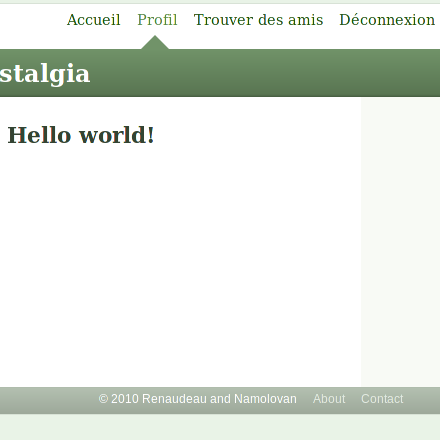
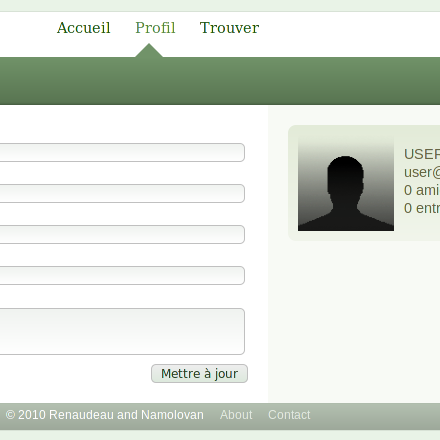
continued project

diff --git a/public/stylesheets/main.sass b/public/stylesheets/main.sass
@@ -20,6 +20,9 @@
 !section_width = 520px
 !global_border_radius = 10px
 
+p
+  :padding 4px 0
+
 body
   :margin 20px 0
 
@@ -58,6 +61,7 @@ body
     .user
       :float right
       :padding 5px 10px
+      :font-weight bold
     .logout
       :clear both
       :float right
@@ -92,6 +96,20 @@ body
     :overflow auto
     width = !aside_width
     :padding 20px
+    
+    .box
+      &.userInfo
+        .infos
+          :padding 10px
+          :font-size 1.2em
+          :width 160px
+
+
+/* class css utils */
+.floatright
+  :float right
+.floatleft
+  :float left
 
 
 /* general style and colors */
@@ -108,6 +126,9 @@ body
 !back_header_from=#719369
 !back_header_to=#587451
 
+!back_buttons_from = #F9F9F9
+!back_buttons_to = #EEE
+
 !back_footer_from=#b4c1b1
 !back_footer_to=#9da89a
 !text_footer=white
@@ -121,7 +142,7 @@ body
 !back_input_from=#f0f3f0
 !back_input_to=white
 !back_button_from=#eee
-!back_button_to=#dde9dd
+!back_button_to=#ddd
 
 body
   :font 12px Arial,Verdana,sans-serif
@@ -139,7 +160,13 @@ em
   :font-style italic
 
 form
-  .buttons
+  :margin-bottom 20px
+  p.buttons
+    :overflow auto
+    :margin 5px 0
+    :padding 5px
+    +vertical-gradient(!back_buttons_from, !back_buttons_to)
+    +border-radius(5px)
     button
       :float right
   .error
@@ -151,11 +178,13 @@ form
   
   p
     :clear both
+    &.floatleft, &.floatright
+      :clear none
   
   label
     :display block
   
-  input[type=text], input[type=password]
+  input[type=text], input[type=password], textarea
     :width 99%
     border = 1px solid !border_input
     &:focus
@@ -171,7 +200,6 @@ form
       border = 1px solid !border_input-#222
     +border-radius(5px)
     :color #283f23
-    :background #e5f0e2  
     +vertical-gradient(!back_button_from, !back_button_to)
     &:hover
       +vertical-gradient(!back_button_from+#111, !back_button_to+#111)
@@ -183,7 +211,7 @@ form
   >nav
     :background white
   >header
-    +vertical-gradient(!back_header_from, !back_header_to, url(/public/image/header.png))
+    +vertical-gradient(!back_header_from, !back_header_to, url(/public/images/header.png))
     :color white
     .logout
       color = !back_header_to+#444
@@ -202,7 +230,8 @@ form
     :background white
     :min-height 250px
   >aside
-    p
+    div.box
+      :overflow auto
       :padding 10px
       :margin-bottom 15px
       +vertical-gradient(!back_aside_from, !back_aside_to)
@@ -267,17 +296,19 @@ form
   h1, h2, h3, h4
     :font-weight bold
     font-family = !font_title
-    :padding 5px
+    :padding 0 5px
   h1
     :font-size 2em
+    :line-height 2em
   h2
     :font-size 1.8em
+    :line-height 1.8em
   h3
     :font-size 1.6em
+    :line-height 1.6em
   h4
     :font-size 1.4em
-  p
-    :padding 4px 0
+    :line-height 1.4em
 
 /* login */
 #login
@@ -292,7 +323,7 @@ form
 /* overview */
 !img_width = 440px
 !img_height = 440px
-!back_carousel = #6e8f66
+!back_carousel = #9EBA98
 
 #overview
   h3

diff --git a/app/views/Main/profile.html b/app/views/Main/profile.html
@@ -5,7 +5,68 @@
 }%
 
 #{set 'aside'}
-
+  <div class="box userInfo">
+    <img class="avatar floatleft" src="/public/images/avatar.png" />
+    <div class="floatleft infos">
+      <p class="user">${connected.firstname} ${connected.lastname}</p>
+      <p class="email">${connected.email}</p>
+      <p class="address">${connected.address}</p>
+      <p class="phone">${connected.phone}</p>
+      <p class="stats">
+        <span>${!connected.friends?0:connected.friends.size()} ami(s)</span>, 
+        <span>${!connected.universities?0:connected.universities.size()} université(s)</span>, 
+        <span>${!connected.corporations?0:connected.corporations.size()} entreprise(s)</span>
+      </p>
+      #{if connected.isAdmin}<p class="isAdmin">Administrateur</p>#{/if}
+    </div>
+  </div>
 #{/set}
 
-<h2 style="text-align: center;">Hello world!</h2>
+<div>
+  <form>
+    <p>
+      <label for="firstname">Nom</label>
+      <input type="text" id="firstname" name="firstname" value="${connected.firstname}" />
+    </p>
+    <p>
+      <label for="lastname">Prénom</label>
+      <input type="text" id="lastname" name="lastname" value="${connected.lastname}" />
+    </p>
+    <p>
+      <label for="email">Email</label>
+      <input type="text" id="email" name="email" value="${connected.email}" />
+    </p>
+    <p>
+      <label for="phone">Téléphone</label>
+      <input type="text" id="phone" name="phone" value="${connected.phone}" />
+    </p>
+    <p>
+      <label for="address">Adresse</label>
+      <textarea type="text" id="address" name="address">${connected.address}</textarea>
+    </p>
+    <p class="buttons">
+      <button>Mettre à jour</button>
+    </p>
+  </form>
+</div>
+
+<div>
+  <h3>Changer son mot de passe</h3>
+  <form>
+    <p>
+      <label for="currentPwd">Mot de passe actuel</label>
+      <input type="password" id="currentPwd" name="currentPwd" />
+    </p>
+    <p>
+      <label for="password">Nouveau mot de passe</label>
+      <input type="password" id="password" name="password" />
+    </p>
+    <p>
+      <label for="password2">Re-tapez le nouveau mot de passe</label>
+      <input type="password" id="password2" name="password2" />
+    </p>
+    <p class="buttons">
+      <button>Changer mon mot de passe</button>
+    </p>
+  </form>
+</div>

diff --git a/app/views/Main/index.html b/app/views/Main/index.html
@@ -5,10 +5,7 @@
 }%
 
 #{set 'aside'}
-  <p>Lorem ipsum dolor sit amet, consectetur adipiscing elit. Praesent gravida nisi ac arcu feugiat elementum. Nullam eu ultricies risus.</p>
-  <p>Vivamus tempus sapien vitae felis mattis ut viverra sem ornare. Maecenas libero risus, laoreet vitae interdum vitae, ullamcorper quis velit. </p>
-  <p>Proin et dolor vitae elit pellentesque commodo. Nullam pretium, nulla sit amet faucibus auctor, elit enim aliquam quam, id ullamcorper urna quam et nisl. Mauris varius nunc vel orci pretium et hendrerit sapien mattis. Maecenas eget odio eget ligula tempus fringilla. Morbi aliquam nunc vitae eros ornare pharetra.</p>
-  <p>Vestibulum id dui mi, nec consequat eros. Sed tincidunt orci magna. Vivamus congue libero non mauris hendrerit et interdum leo semper. Etiam posuere, augue semper eleifend sagittis, neque nulla facilisis erat, sed viverra mauris lacus id justo. Nulla eu nibh ac neque dictum congue. Cras eleifend aliquet lacus non mattis. In a orci arcu.</p>
+  
 #{/set}
 
 <h2>Hello world!</h2>

diff --git a/app/views/Main/findFriends.html b/app/views/Main/findFriends.html
@@ -1,22 +1,21 @@
 #{extends 'main.html' /}
 
 %{
-  currentNav = 'friends';
+  currentNav = 'find';
 }%
 
-#{set 'aside'}
-  <p>Lorem ipsum dolor sit amet, consectetur adipiscing elit. Praesent gravida nisi ac arcu feugiat elementum. Nullam eu ultricies risus.</p>
-#{/set}
-
 <div>
-  <h3>Trouver une personne</h3>
   <form>
     <p>
-      <label for="friend">Nom, prénom ou email de la personne</label>
-      <input type="text" id="friend" name="friend" />
+      <select name="type">
+        <option value="person">Trouver une personne</option>
+        <option value="university">Trouver une université</option>
+      </select>
     </p>
-    <p class="buttons">
-      <button>Rechercher</button>
+    <p>
+      <label for="findName">Nom, prénom ou email</label>
+      <input type="text" id="findName" name="name" style="width: 420px;" />
+      <button style="float: right;">Rechercher</button>
     </p>
   </form>
 </div>

diff --git a/app/views/main.html b/app/views/main.html
@@ -3,13 +3,17 @@
 %{
   if(currentNav=='welcome') nav_welcome='selected';
   else if(currentNav=='profile') nav_profil='selected';
-  else if(currentNav=='friends') nav_friends='selected';
+  else if(currentNav=='find') nav_find='selected';
+  else if(currentNav=='admin') nav_admin='selected';
 }%
 
 #{set 'nav'}
   <li><a class="${nav_welcome}" href="@{Main.index}">Accueil</a></li>
   <li><a class="${nav_profil}" href="@{Main.profile}">Profil</a></li>
-  <li><a class="${nav_friends}" href="@{Main.findFriends}">Trouver quelqu'un</a></li>
+  <li><a class="${nav_find}" href="@{Main.findFriends}">Trouver</a></li>
+  #{if connected.isAdmin}
+  <li><a class="${nav_admin}" href="/">Administrateur</a></li>
+  #{/if}
 #{/set}
 
 <aside>
